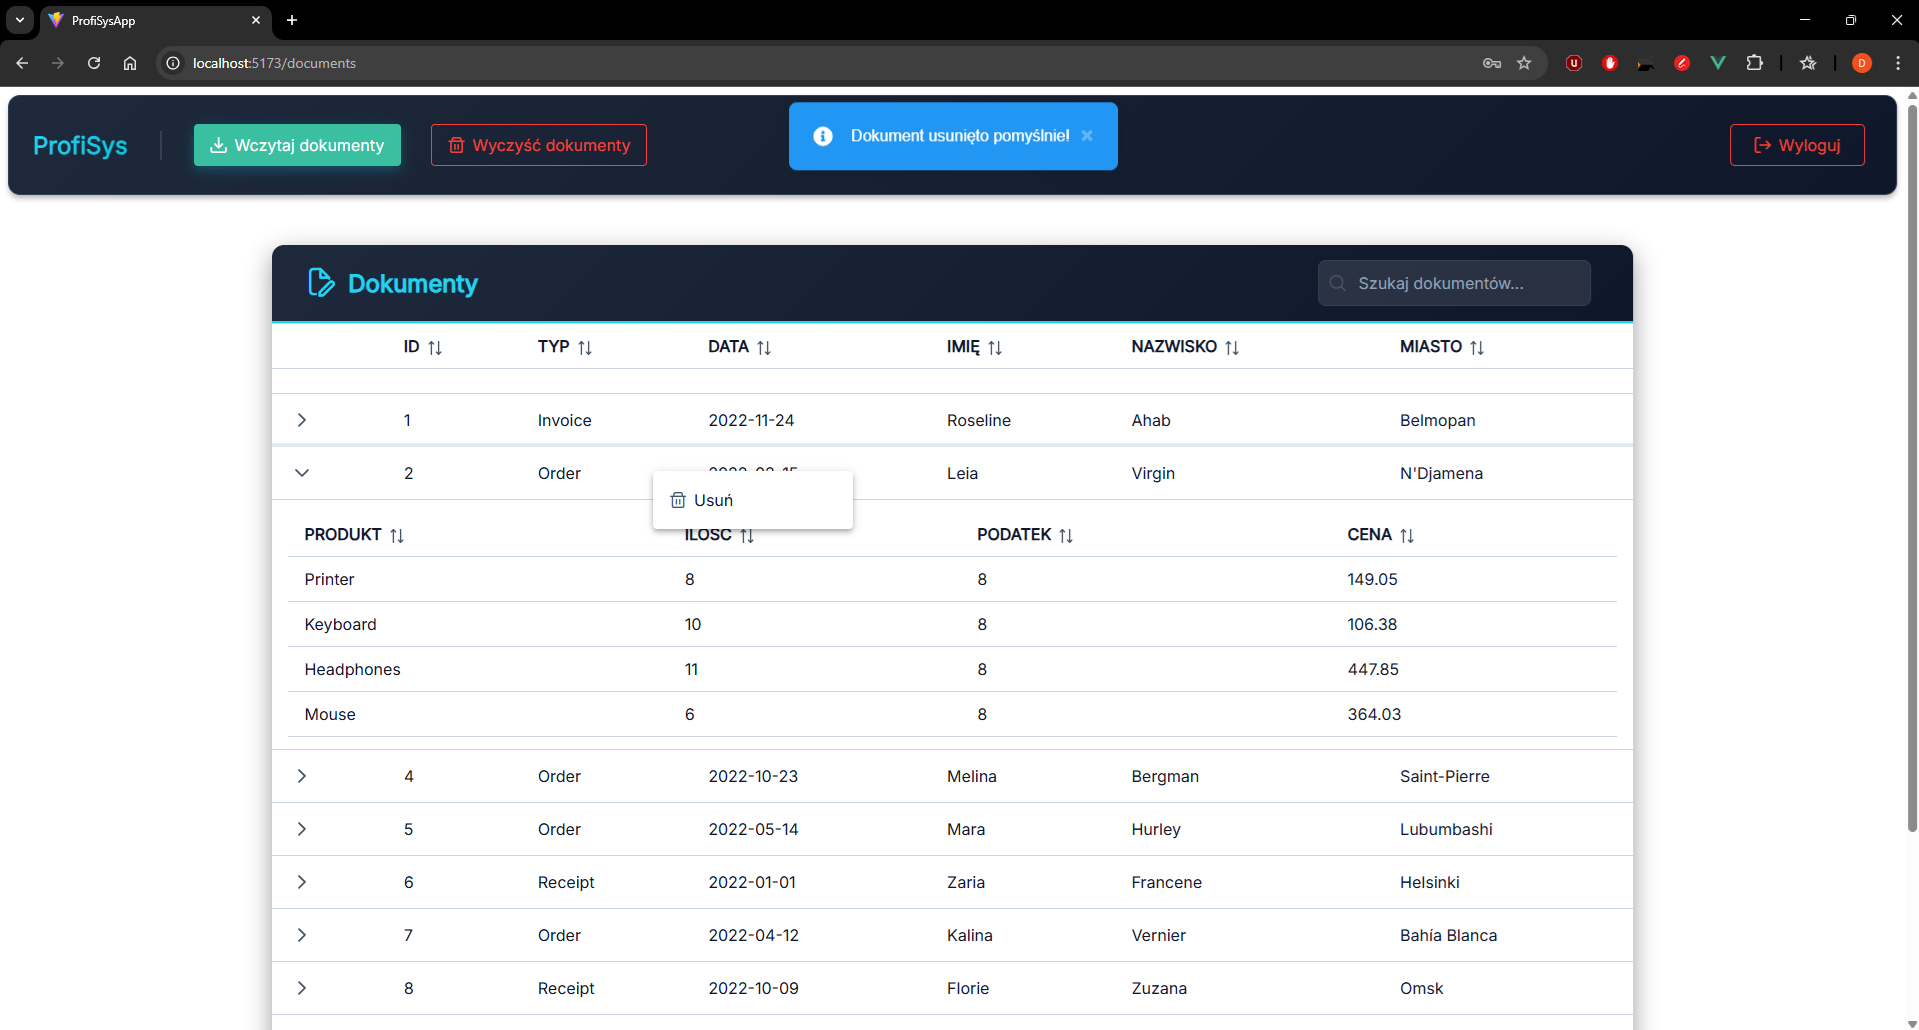
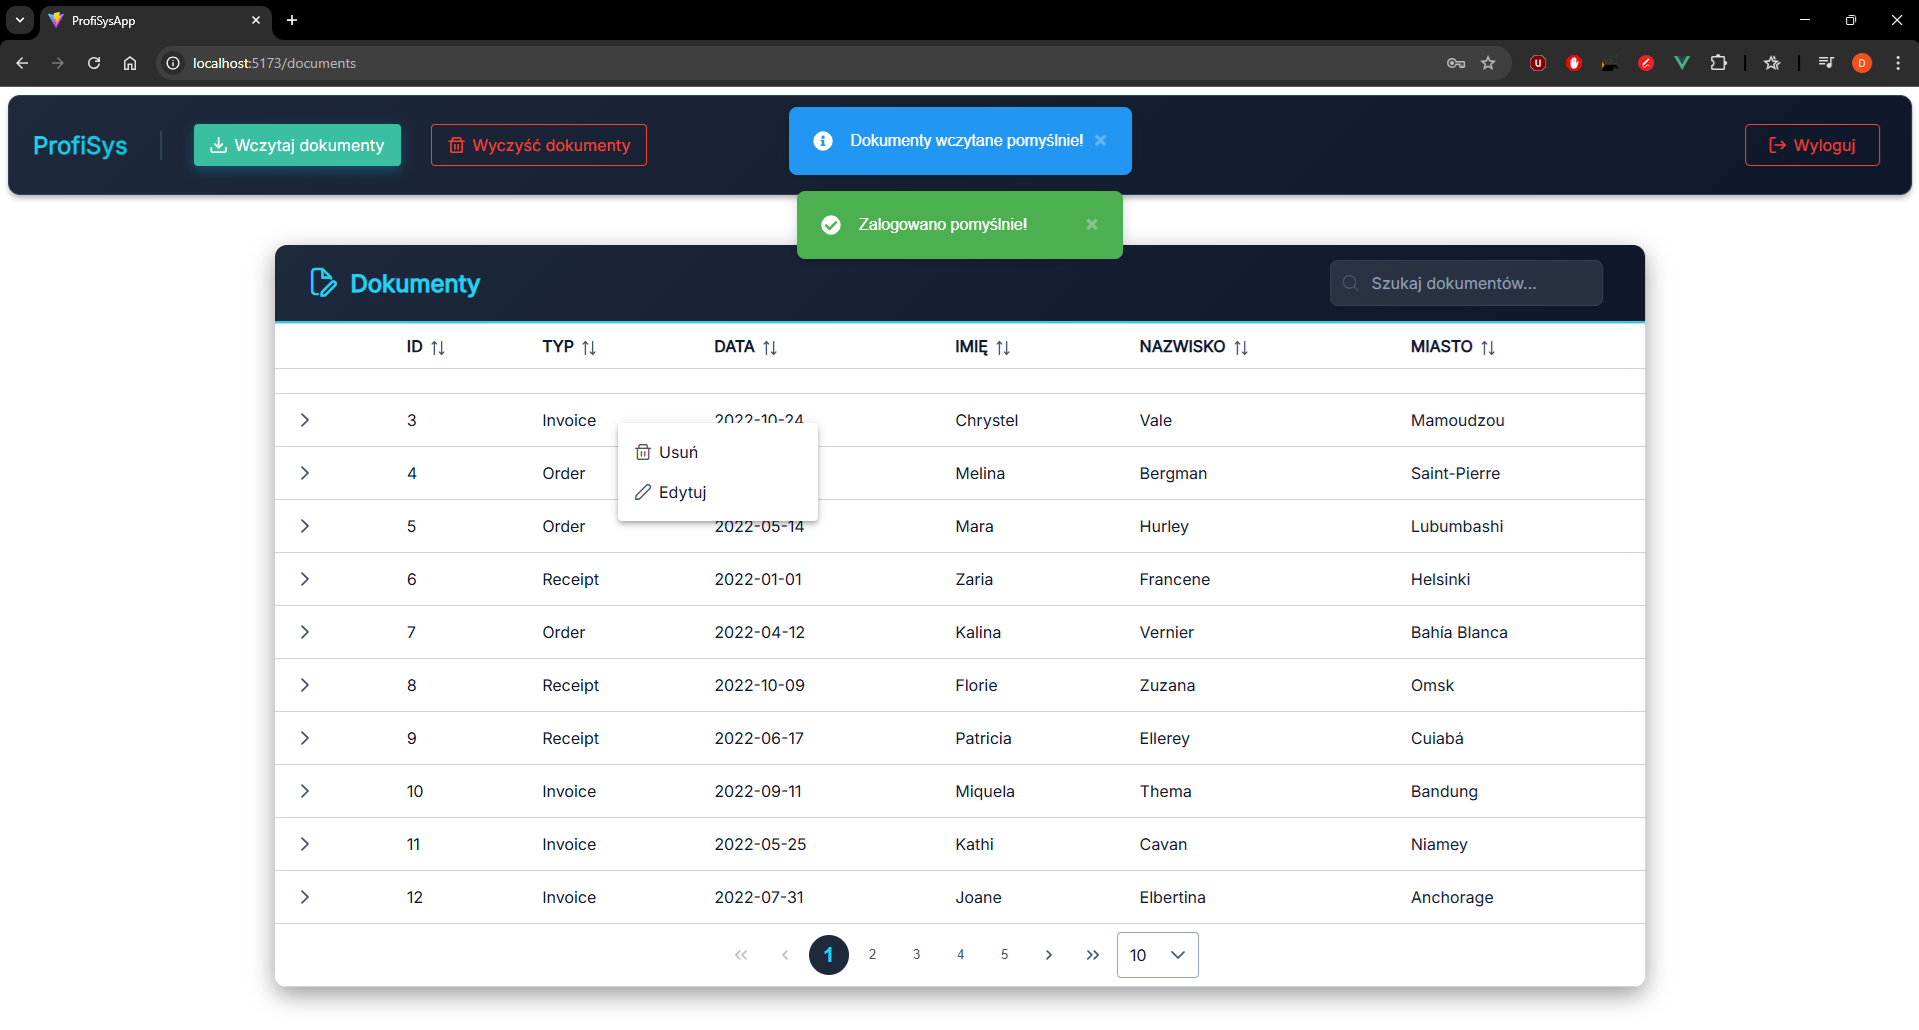
Poprawiony README.md

diff --git a/README.md b/README.md
@@ -79,6 +79,7 @@ Celem aplikacji **ProfisysApp** jest stworzenie systemu do zarządzania dokument
 | 📝 **Lista dokumentów** | Wyświetlanie wszystkich dokumentów w tabeli z wyszukiwaniem i możliwością sortowania. |
 | 📂 **Import CSV** | Import danych z plików CSV do bazy danych. |
 | 🗑 **Usuwanie dokumentów** | Usuwanie pojedynczych lub wszystkich dokumentów w bazie. |
+| ✏ **Edytowanie dokumentów** | Edycja danych dokumentów i zapisywanie zmian. |
 | 📡 **Autoryzacja JWT** | Bezpieczny dostęp do endpointów API tylko dla zalogowanych użytkowników. |
 | 💬 **Powiadomienia** | Toasty informujące o powodzeniu lub błędach operacji. |
 | 🔄 **Routing** | Strony chronione i przekierowania na login w przypadku braku tokenu. |
@@ -96,6 +97,7 @@ Celem aplikacji **ProfisysApp** jest stworzenie systemu do zarządzania dokument
 | **GET** | `/api/documents` | Pobranie wszystkich dokumentów z bazy danych | ✅ |
 | **DELETE** | `/api/documents/{documentId}` | Usunięcie pojedynczego dokumentu po ID | ✅ |
 | **DELETE** | `/api/documents` | Usunięcie wszystkich dokumentów z bazy | ✅ |
+| **PUT** | `/api/documents` | Edycja dokumentu | ✅ |
 | **POST** | `/api/dataImport/csvFiles` | Import danych z plików CSV do bazy SQLite | ✅ |
 
 ✅ – wymaga tokenu JWT  
@@ -109,6 +111,7 @@ Celem aplikacji **ProfisysApp** jest stworzenie systemu do zarządzania dokument
 |-------|----------|
 | Strona logowania | <img src="./images/login.png" alt="Strona logowania" width="400"> |
 | Lista dokumentów | <img src="./images/documents.png" alt="Lista dokumentów" width="400"> |
+| Edycja dokumentu | <img src="./images/edit.png" alt="Edycja dokumentu" width="400"> |
 
 ---
 
